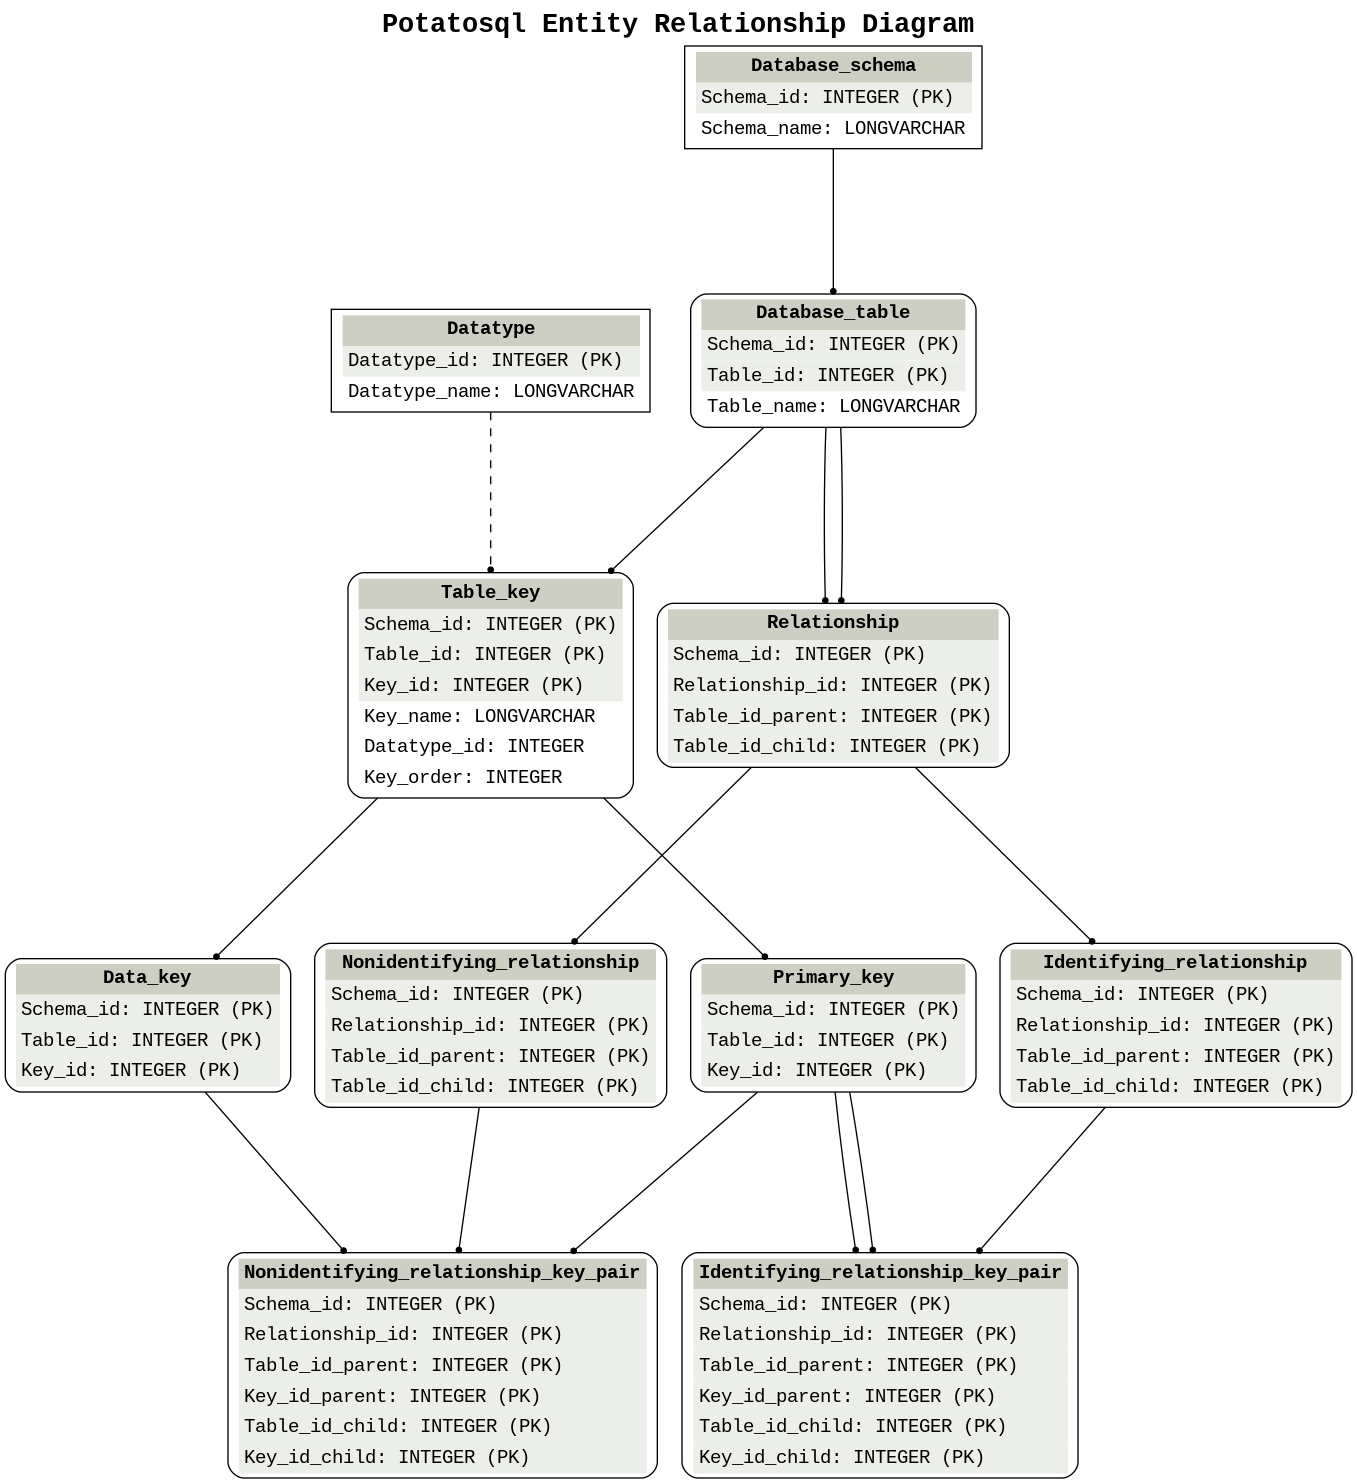
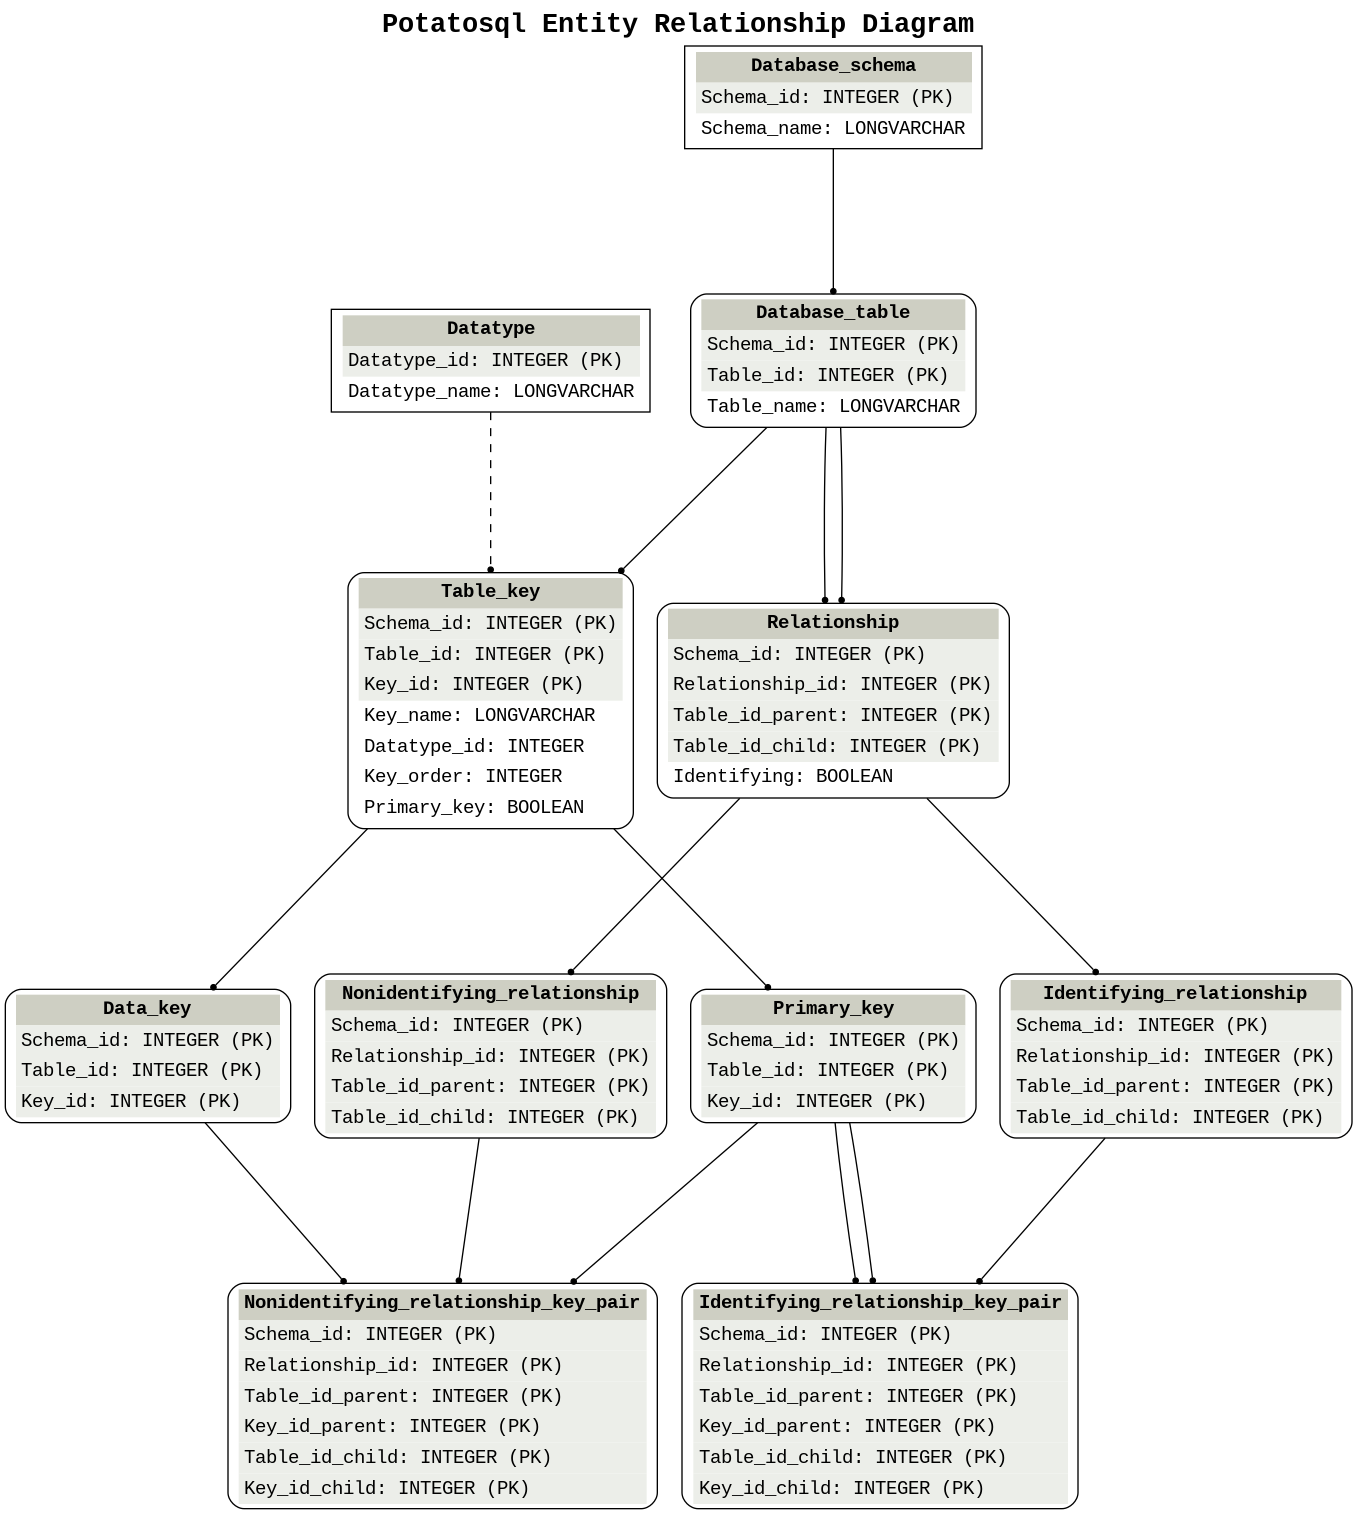
update to new potatosql erd

diff --git a/docs/main/potatosql/design.html b/docs/main/potatosql/design.html
@@ -46,7 +46,7 @@
 <h2>New Schema Proposal<a class="headerlink" href="#new-schema-proposal" title="Permalink to this headline">¶</a></h2>
 <p>This will possibly be the new Potatosql database schema.</p>
 <div class="figure align-center" id="id1">
-<a class="reference internal image-reference" href="../_images/newschema.png"><img alt="new potatosql database schema" src="../_images/newschema.png" style="width: 678.5px; height: 742.0px;" /></a>
+<a class="reference internal image-reference" href="../_images/newschema.png"><img alt="new potatosql database schema" src="../_images/newschema.png" style="width: 678.5px; height: 757.5px;" /></a>
 <p class="caption"><span class="caption-text">Let me know what you think.</span><a class="headerlink" href="#id1" title="Permalink to this image">¶</a></p>
 </div>
 </div>
